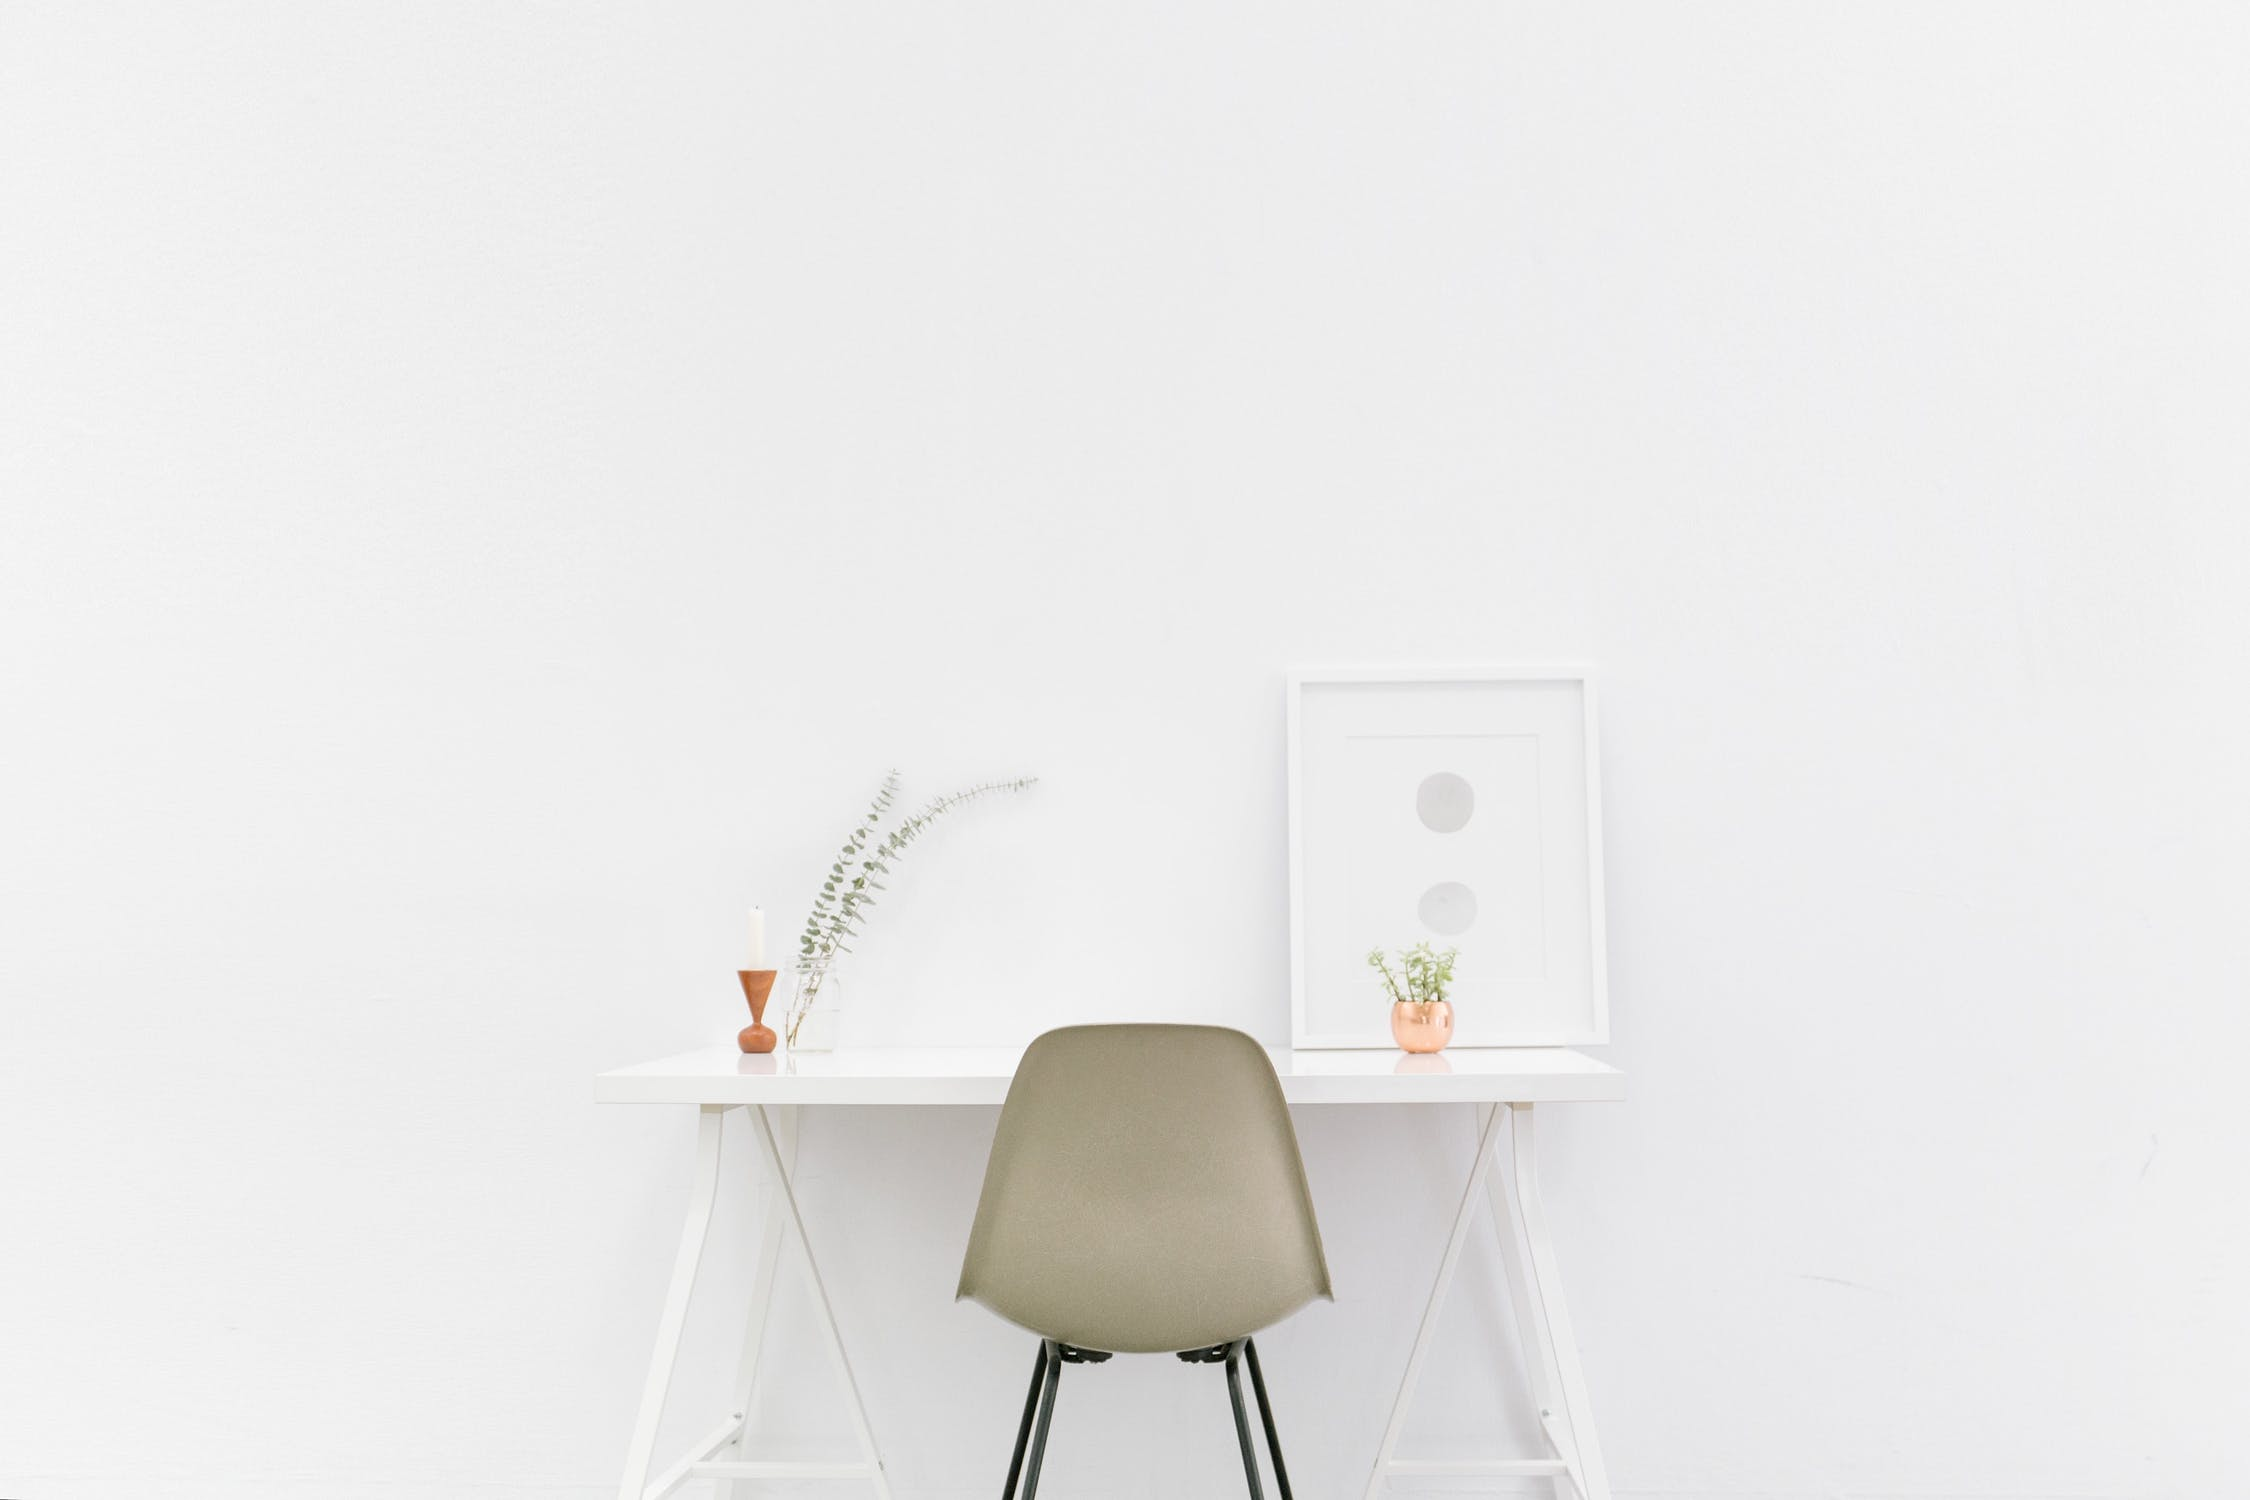
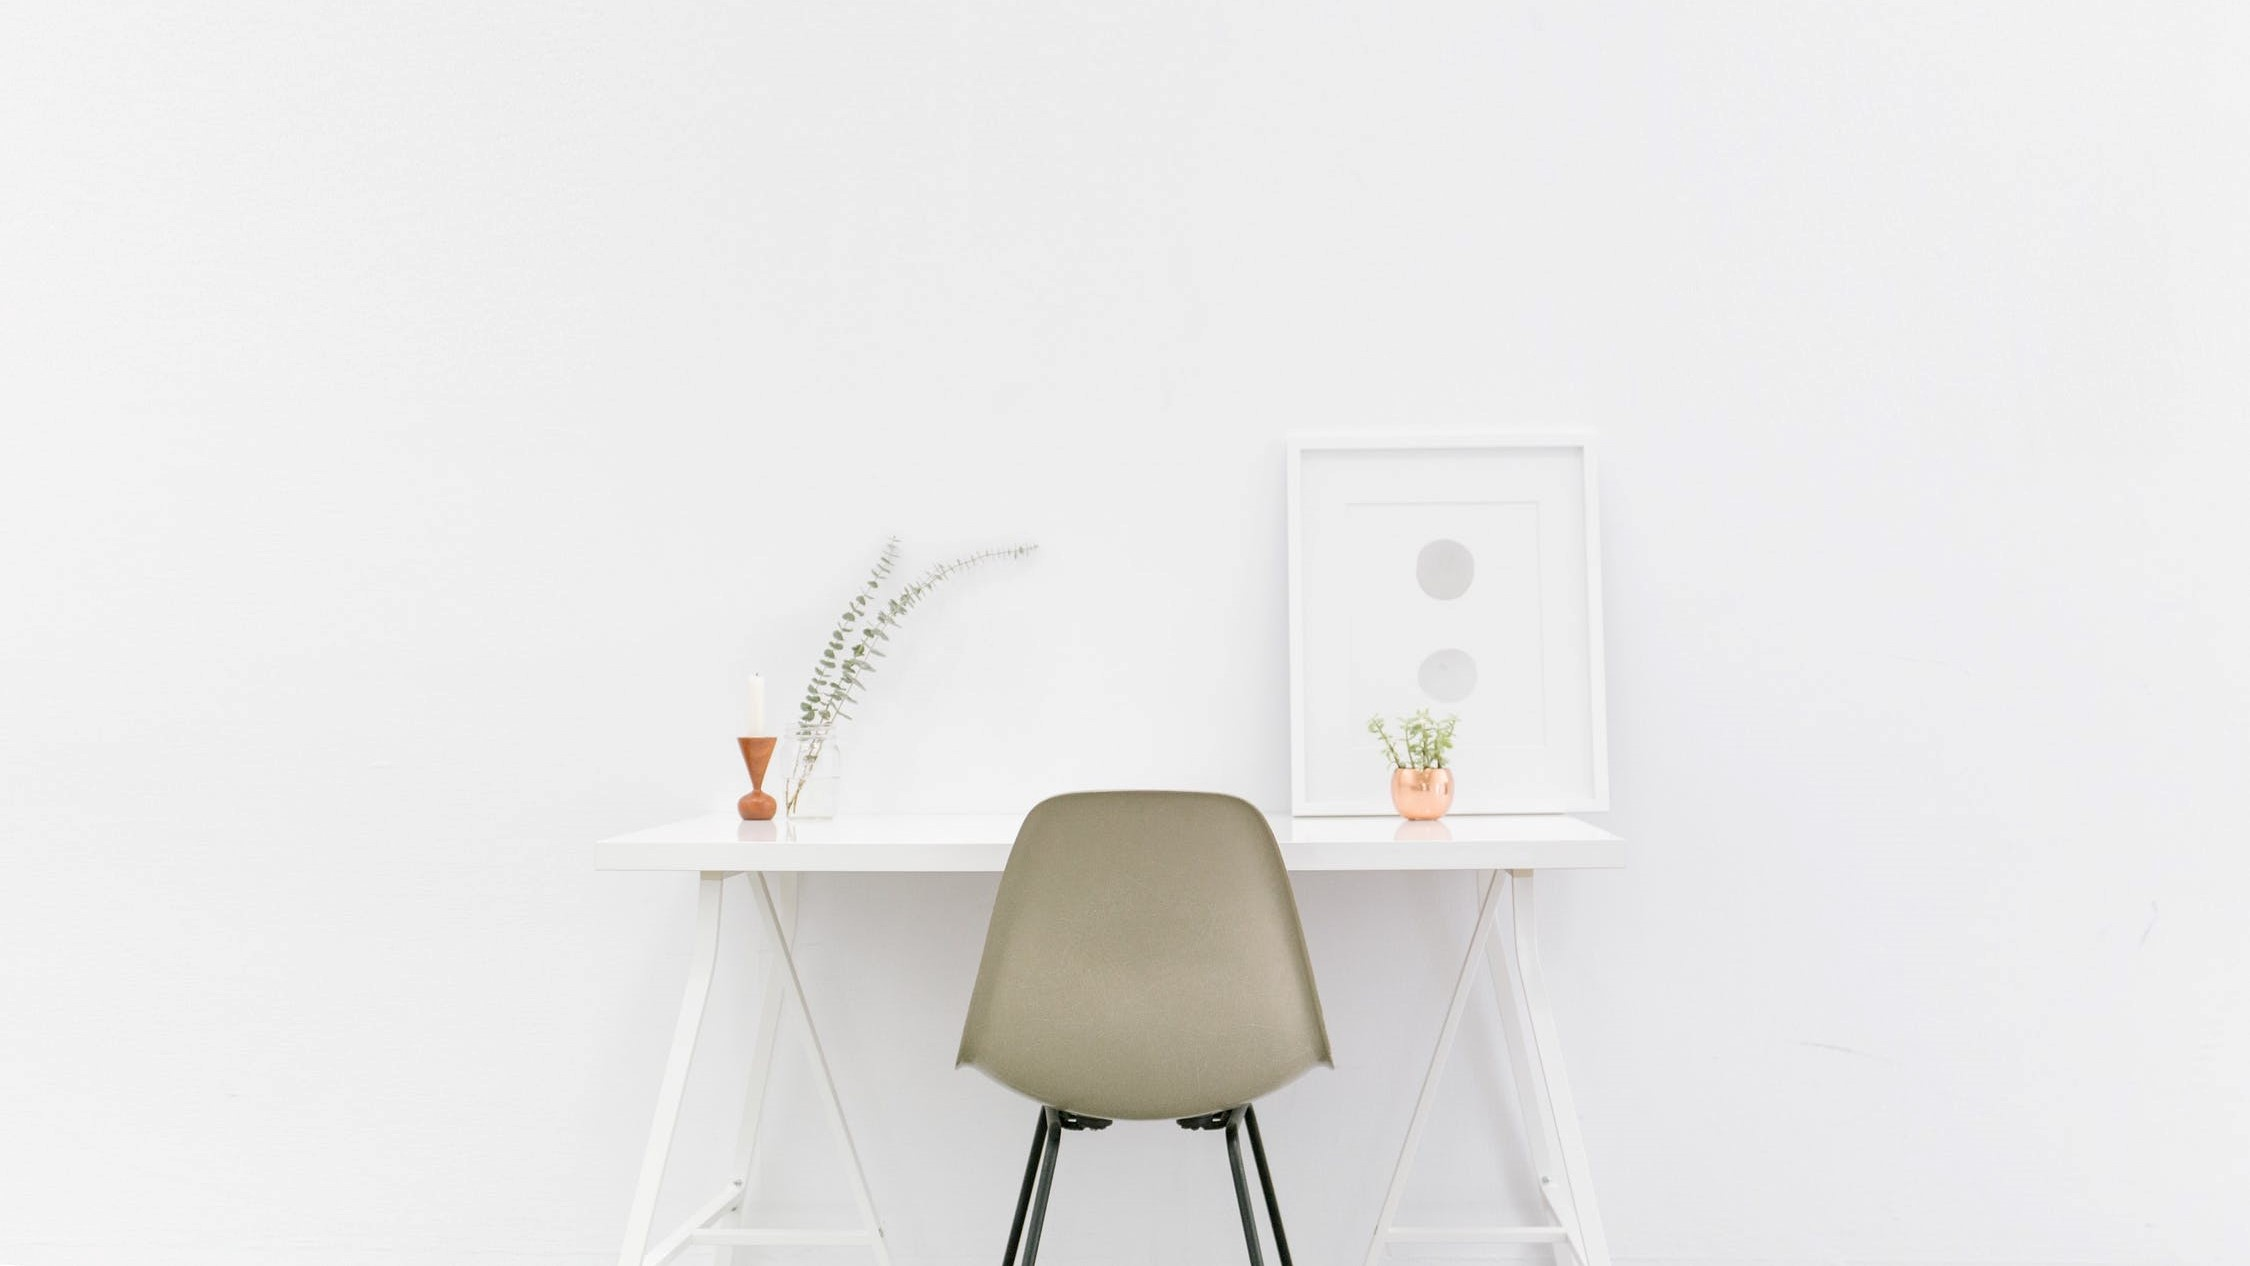
Big change

Changed region(s): [[0.3111, 0.4313, 0.7156, 0.9858], [0.6222, 0.4313, 0.6533, 0.4621]]

diff --git a/index.html b/index.html
@@ -1,6 +1,7 @@
 <!DOCTYPE html>
 <html lang = "en-US">
 <head>
+	<meta name="viewport" content="width=device-width, initial-scale=1, shrink-to-fit=no">
 	<meta charset = "utf-8">
 	<title>Nick Vu professional's blog and portfolio</title>
 	<link rel = "stylesheet" type = "text/css" href = "style.css">
@@ -12,7 +13,6 @@
 </head>
 <body>
 	<div class="imgbox">
-
 		<div id="landingtext">Nick Vu's Blog and Porfolio</div>
 		
 	</div>
@@ -21,36 +21,49 @@
 	<div id="right"></div>
 	<div style = "background-color: #FFF;z-index: 1000;position: relative">
 	<img id ="topico" src="Image/logo.png" alt="Logo">
-	<nav class="navbar">
-		<ul>
-			<li id="home" class="item" ><a href="#">About</a></li>
-			<li id="neu" class="item"><a href="data/data.html">Work Portfolio</a></li>
+	<div onclick="openNav()" class="d-flex flex-row-reverse sticky-top">
+		<button id="menubutt" type="button" class="btn btn-info mr-3 mt-3" style="font-size: 1.5rem"><i class="fas fa-bars"></i></button>
+	</div>
+	
+	<div id="mySidenav" class="sidenav">
+		<a href="javascript:void(0)" class="closebtn" onclick="closeNav()">&times;</a>
+		<a href="#" id="active">About</a>
+		<a href="#">Portfolio</a>
+		<a href="#">Gallery</a>
+		<a href="#">Blog</a>
+	</div>
+	<nav class="nav d-none d-lg-flex justify-content-center">
+		<ul class = "d-flex justify-content-between p-0">
+			<li id="home" class="item" ><a href="#" class="active">About</a></li>
+			<li id="neu" class="item"><a href="data/data.html"><span>Work Portfolio</a></li>
 			<li id="vr" class="item"><a href="./VR/vr.html">Hobby Gallery</a></li>
 			<li id="news" class="item"><a href="#">Blog</a></li>
-			<li class="hrs"></li>
 		</ul>
 		<hr>
 	</nav>
 
-	<div id="intr">
-		<div style="margin:1px 1px;border:5px solid black; padding-bottom:20px;letter-spacing: 1px;line-height: 1.5">
-			<div id="prof"><img style="width:100%; height:auto;" src="Image/prof.jpg"></div>
-			<div id="title">
-			<h2 style = "font-size: 3em; text-align: left; padding-left:8%; padding-top:5%">Something to introduce about <strong style="color: #FF5A5F">myself. </strong></h2>
+	<div id="intr" class="container p-1">
+		<div style="border:5px solid black;letter-spacing: 1px;line-height: 1.5;" class="container pt-3">
+			<div class="row justify-content-center align-items-center mb-2">
+			<div  class="col-8 col-sm-7 col-md-6 col-lg-4 col-xl-3"><img style="width:100%; height:auto;" src="Image/prof.jpg"></div>
+			<div  class="col-12 col-lg-8 col-xl-9">
+			<h2 style = "font-size: 3rem" class="text-center text-md-center">Something to introduce about <strong style="color: #FF5A5F">myself. </strong></h2>
 			</div>
+		</div>
+			<div class="row justify-content-center mb-2">
 			<div style="margin:0 2%; text-align:justify;">
-			<p>My name is Nick Vu, a down-to-earth <strong style="color: #FF5A5F">electrical engineer</strong>. Many people also known me as <strong style="color: #FF5A5F">Phuong Minh Vu</strong> but to remove the trouble of people trying their best to pronounce my real name (mostly unsucessfully), I decided to creatively go with a nickname: <strong style="color: #FF5A5F"> Nick</strong>.</p>
+			<p>My name is Nick Vu, a down-to-earth <strong style="color: #FF5A5F">electrical engineer</strong>. My full name is <strong style="color: #FF5A5F">Phuong Minh Vu</strong> but many know me by <strong style="color: #FF5A5F">Nick</strong>.</p>
 			<p>	Besides my professional skills in electrical engineering, I have a very very ardent interest in <strong style="color: #FF5A5F">Immersive Virtual Reality</strong>. Not similar to the haptic feedback sensations VR out there, but rather the more <strong style="color: #FF5A5F">neuroscience</strong> related implementation. I want to make a machine that can be controlled intuitively and  experienced naturally, through the usage of <strong style="color: #FF5A5F">digital signal processing</strong> and <strong style="color: #FF5A5F">electrophysiology</strong>. If you have time to breeze through my website, most of my experience and projects are deeply related to reach closer to <strong style="color: #FF5A5F">my life goal.</strong></p>
 		</div>
+		
 
 	</div>
 	</div>
 	</div>
 	<script class="center-fit" src="script.js"></script>
-	<script src="https://code.jquery.com/jquery-3.3.1.slim.min.js" integrity="sha384-q8i/X+965DzO0rT7abK41JStQIAqVgRVzpbzo5smXKp4YfRvH+8abtTE1Pi6jizo" crossorigin="anonymous"></script>
-	<script src="https://cdnjs.cloudflare.com/ajax/libs/popper.js/1.14.7/umd/popper.min.js" integrity="sha384-UO2eT0CpHqdSJQ6hJty5KVphtPhzWj9WO1clHTMGa3JDZwrnQq4sF86dIHNDz0W1" crossorigin="anonymous"></script>
-	<script src="https://stackpath.bootstrapcdn.com/bootstrap/4.3.1/js/bootstrap.min.js" integrity="sha384-JjSmVgyd0p3pXB1rRibZUAYoIIy6OrQ6VrjIEaFf/nJGzIxFDsf4x0xIM+B07jRM" crossorigin="anonymous"></script>
-
-
+	<script src="https://code.jquery.com/jquery-3.2.1.slim.min.js" integrity="sha384-KJ3o2DKtIkvYIK3UENzmM7KCkRr/rE9/Qpg6aAZGJwFDMVNA/GpGFF93hXpG5KkN" crossorigin="anonymous"></script>
+	<script src="https://cdnjs.cloudflare.com/ajax/libs/popper.js/1.12.9/umd/popper.min.js" integrity="sha384-ApNbgh9B+Y1QKtv3Rn7W3mgPxhU9K/ScQsAP7hUibX39j7fakFPskvXusvfa0b4Q" crossorigin="anonymous"></script>
+	<script src="https://maxcdn.bootstrapcdn.com/bootstrap/4.0.0/js/bootstrap.min.js" integrity="sha384-JZR6Spejh4U02d8jOt6vLEHfe/JQGiRRSQQxSfFWpi1MquVdAyjUar5+76PVCmYl" crossorigin="anonymous"></script>
+	<script src="https://kit.fontawesome.com/5ea10abf63.js"></script>
 </body>
 </html>

diff --git a/style.css b/style.css
@@ -1,5 +1,42 @@
+Skip to content
+ 
+Search or jump to…
+
+Pull requests
+Issues
+Marketplace
+Explore
+ 
+@nick-vu 
+0
+0 0 nick-vu/nick-vu.github.io
+ Code  Issues 0  Pull requests 0  Projects 0  Wiki  Security  Insights  Settings
+nick-vu.github.io/style.css
+@nickvu nickvu Done
+a3666ea 12 days ago
+208 lines (182 sloc)  3.14 KB
+    
 html {
-	scroll-behavior: smooth;
+  font-size: 1rem;
+  scroll-behavior: smooth;
+}
+
+@include media-breakpoint-up(sm) {
+  html {
+    font-size: 1.2rem;
+  }
+}
+
+@include media-breakpoint-up(md) {
+  html {
+    font-size: 1.4rem;
+  }
+}
+
+@include media-breakpoint-up(lg) {
+  html {
+    font-size: 1.6rem;
+  }
 }
 
 @font-face {
@@ -38,7 +75,7 @@ body {
    display: grid;
    height: 100vh;
    background-image: url("Image/Landing.jpeg");
-   background-size: 80%;
+   background-size: cover;
    background-position: center;
    display: flex;
    flex-direction: column;
@@ -46,12 +83,12 @@ body {
   }
 
 #landingtext {
-	width:40%;
-	margin-left: 30%;
-	margin-right: 30%;
+	width:50%;
+	margin-left: 25%;
+	margin-right: 25%;
 	margin-top:17%;
 	font-family: 'Simplifica', cursive;
-	font-size:5em;
+	font-size:5rem;
 	font-weight: bold;
 	display:block;
 	background-color: transparent;
@@ -122,7 +159,6 @@ nav{
 }
 nav ul{
 	background-color:white;
-	width:60%;
 	margin:0 auto;
 	text-align:center;
 }
@@ -133,10 +169,9 @@ nav ul .item{
 	padding-left: 30px;
 	padding-right: 30px;
 	text-decoration: none;
-	font-size:30px;
 	text-transform: uppercase;
 	margin-bottom:0;
-	font-size:3em;
+	font-size:3rem;
 }
 nav ul li a {
 	text-decoration: none;
@@ -146,33 +181,11 @@ nav ul li a {
 
 nav ul li a:hover {
 	text-decoration: none;
-	color:black;
+	color:#FF5A5F;
+	border-bottom: 2px solid #FF5A5F;
 }
 
-#neu:hover~.hrs {
-	margin-left:22.7%;
-	width:220px;
-}
-#vr:hover~.hrs {
-	margin-left:55.7%;
-	width:205px;
-}
-#news:hover~.hrs {
 
-	margin-left:86.4%;
-	width:75px;
-}
-
-.hrs{
-  list-style: none;
-  clear:both;
-  width: 95px;
-  margin-top:0;
-  margin-bottom:0;
-  margin-left: 4.2%;
-  border: 2px solid #FF5A5F;
-  transition: .3s ease-in-out;
-}
 nav>hr{
 	width:60%;
 	height: 1px;
@@ -197,11 +210,66 @@ p {
 }
 
 
-a:active {
+.active {
 	color:#FF5A5F;
+	border-bottom: 2px solid #FF5A5F;
 }
 
 
 
 
+/* The side navigation menu */
+.sidenav {
+  height: 100%; /* 100% Full-height */
+  width: 0; /* 0 width - change this with JavaScript */
+  position: fixed; /* Stay in place */
+  z-index: 1; /* Stay on top */
+  top: 0; /* Stay at the top */
+  right:0;
+  background-color: white; /* Black*/
+  overflow-x: hidden; /* Disable horizontal scroll */
+  padding-top: 60px; /* Place content 60px from the top */
+  transition: 0.5s; /* 0.5 second transition effect to slide in the sidenav */
+}
 
+/* The navigation menu links */
+.sidenav a {
+  padding: 8px 8px 8px 32px;
+  text-decoration: none;
+  font-size: 3rem;
+  color: black;
+  display: block;
+  transition: 0.3s;
+  text-align: center;
+}
+
+/* When you mouse over the navigation links, change their color */
+.sidenav #active {
+	color:#FF5A5F;
+}
+.sidenav a:hover{
+	text-decoration:none;
+	color:#FF5A5F;
+}
+/* Position and style the close button (top right corner) */
+.sidenav .closebtn {
+  position: absolute;
+  top: 0;
+  right: 25px;
+  font-size: 36px;
+  margin-left: 50px;
+}
+
+
+© 2019 GitHub, Inc.
+Terms
+Privacy
+Security
+Status
+Help
+Contact GitHub
+Pricing
+API
+Training
+Blog
+About

diff --git a/script.js b/script.js
@@ -1,29 +1,11 @@
-var explButt = document.querySelector("#explore");
-var icon = document.querySelector("#icon")
+/* Open the sidenav */
+function openNav() {
+  document.getElementById("mySidenav").style.width = "100%";
+  document.getElementById("menubutt").classList.add("d-none");
+}
 
-explButt.addEventListener("mouseover", function(){
-  explButt.style.backgroundColor = "#FF5A5F"
-  explButt.innerHTML = "Nick's Neuroscience and VR Blog"
-  icon.classList.remove("fade-out");
-  icon.classList.add("fade-in-slow");
-})
-
-explButt.addEventListener("mouseout", function(){
-  explButt.style.backgroundColor = "white"
-  explButt.innerHTML = "Click to Explore! Fuel Your Imagination...";
-  if (icon.classList.contains('is-paused')){
-  el.classList.remove('is-paused');
-} 
-  icon.classList.remove("fade-in-slow")
-  icon.classList.add("fade-out")
-
-
-})
-
-explButt.addEventListener("click", function(){
-  explButt.style.backgroundColor = "#FF5A5F";
-  explButt.innerHTML = "Nick's Neuroscience and VR Blog";
-  icon.classList.remove("fade-in-slow");
-  icon.classList.remove("fade-out");
-  icon.classList.add("fade-in");    
-})
+/* Close/hide the sidenav */
+function closeNav() {
+  document.getElementById("mySidenav").style.width = "0";
+  document.getElementById("menubutt").classList.remove("d-none");
+}

diff --git a/data/style.css b/data/style.css
@@ -1,5 +1,24 @@
 html {
-	scroll-behavior: smooth;
+  font-size: 1rem;
+  scroll-behavior: smooth;
+}
+
+@include media-breakpoint-up(sm) {
+  html {
+    font-size: 1.2rem;
+  }
+}
+
+@include media-breakpoint-up(md) {
+  html {
+    font-size: 1.4rem;
+  }
+}
+
+@include media-breakpoint-up(lg) {
+  html {
+    font-size: 1.6rem;
+  }
 }
 
 
